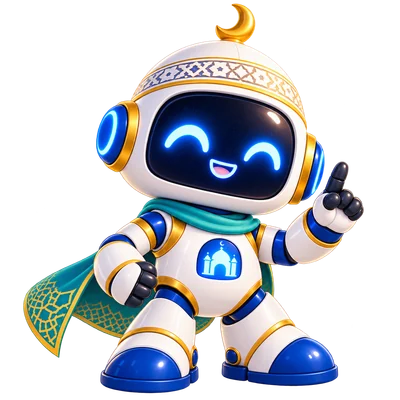
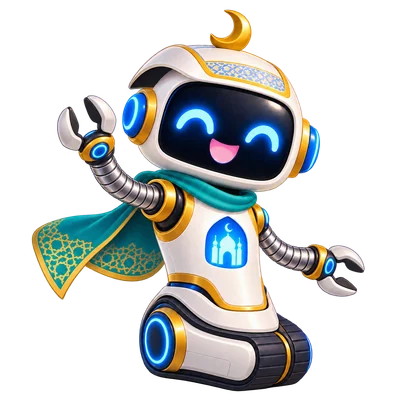
เปลี่ยนภาพหุ่นยนต์นำทางเป็นชุดใหม่ ลดความคล้ายมนุษย์
ชุดเก่าเป็นหุ่นยนต์สองขามีเท้าแบบมนุษย์ ชุดใหม่ใช้ฐานล้อและตีนตะขาบ
ไม่มีขา ดูเป็นเครื่องจักรชัดขึ้นตามข้อ 1.2

- แปลง .png ต้นฉบับเป็น .webp ด้วย scripts/optimize-images.mjs ตามเดิม
  (ราว 1.2MB -> 37KB ต่อใบ ขนาด 400x400 เท่าชุดเก่า)
- เจ้าของเปลี่ยนชื่อสองใบ จึงอัปเดตการอ้างอิงตาม
  cute -> play, glad -> idea
- การ์ดวัย 3-6 ปี และ /kids ใช้ play (ถือจอยเกม) ให้ตรงกับ
  "เรียนรู้ผ่านการเล่น" ส่วนหน้าจอชนะเกมความจำใช้ fighting
  (ท่าชูสองแขนฉลอง) แทนที่จะเป็นท่าคิดออก
- แก้คอมเมนต์ใน AgeGroupSelector ที่อ้างชื่อท่าเดิมให้ตรงกับภาพใหม่

ตรวจแล้ว: npm run build ผ่าน และเปิดดูจริงทุกหน้าที่ใช้ภาพ
ทั้งจอ 1280px และ 400px ไม่มี layout เพี้ยน

Claude-Session: https://claude.ai/code/session_015nFYibtH6AEJhVTPQzB3Gi

diff --git a/src/components/landing/AgeGroupSelector.tsx b/src/components/landing/AgeGroupSelector.tsx
@@ -12,14 +12,14 @@ import { useSound } from "@/components/sound/SoundProvider";
   เพราะพ่อแม่ส่งลิงก์ให้กันได้ตรงช่วงวัย และไม่มีสถานะซ่อนให้เด็กงงว่าของหายไปไหน
 
   แยกสองใบด้วยท่าทางของหุ่นยนต์นำทาง (ข้อ 1.2) เด็กที่ยังอ่านตัวเลขไม่ออกก็แยกได้
-  - 3-6 ปี "เรียนรู้ผ่านการเล่น" -> ท่าชูกำปั้นดีใจ (Glad)
+  - 3-6 ปี "เรียนรู้ผ่านการเล่น" -> ท่าถือจอยเกม (Play)
   - 7 ปีขึ้นไป "อ่านเองได้"      -> ท่าถือหนังสือเปิดอ่าน (Read)
   ภาพ alt="" เพราะชื่อช่วงวัยเป็นข้อความอยู่ข้างๆ ในลิงก์เดียวกันแล้ว
 */
 const GROUPS = [
   {
     href: "/kids",
-    image: "/Character/glad.webp",
+    image: "/Character/play.webp",
     label: "วัย 3-6 ปี",
     hint: "เรียนรู้ผ่านการเล่น",
     speakKey: "age-3-6",

diff --git a/src/components/games/MemoryGame.tsx b/src/components/games/MemoryGame.tsx
@@ -108,7 +108,7 @@ export function MemoryGame({ ageGroup }: { ageGroup: AgeGroup }) {
         </button>
       </div>}
       {won ? <div className="mx-auto max-w-lg rounded-card bg-sky-pale p-6 text-center">
-        <Image src="/Character/glad.webp" alt="" width={200} height={200} sizes="200px" className="logo-mark-glow mx-auto size-40 object-contain sm:size-48" />
+        <Image src="/Character/fighting.webp" alt="" width={200} height={200} sizes="200px" className="logo-mark-glow mx-auto size-40 object-contain sm:size-48" />
         <h2 ref={winHeading} tabIndex={-1} className="mt-2 font-display text-3xl font-extrabold">
           เก่งมาก!<span lang="en" className="block text-2xl">Well done!</span>
         </h2>

diff --git a/src/app/learn/games/page.tsx b/src/app/learn/games/page.tsx
@@ -22,7 +22,7 @@ export default function GamesPage() {
       <div className="bg-cloud shadow-soft rounded-card mt-6 flex items-center justify-center gap-2 px-4 py-6 sm:gap-6">
         {/* หุ่นยนต์นำทาง (ข้อ 1.2) ภาพตกแต่ง ชื่อหน้าเป็นข้อความอยู่ข้างๆ แล้ว */}
         <Image
-          src="/Character/cute.webp"
+          src="/Character/play.webp"
           alt=""
           width={144}
           height={144}

diff --git a/src/lib/lessons.ts b/src/lib/lessons.ts
@@ -275,7 +275,7 @@ export const ISLAND_CONTENT: IslandContent[] = [
   },
   {
     slug: "explore",
-    robot: "/Character/glad.webp",
+    robot: "/Character/idea.webp",
     introTh: "มองไปรอบตัว ทุกอย่างที่เราเห็นคือสิ่งที่อัลลอฮ์ทรงสร้าง",
     introEn: "Look around — everything we see was created by Allah.",
     kids: [

diff --git a/src/app/kids/page.tsx b/src/app/kids/page.tsx
@@ -8,7 +8,7 @@ export default function KidsPage() {
   return (
     <AgeHome
       anchor="kids"
-      robot="/Character/glad.webp"
+      robot="/Character/play.webp"
       titleTh="วัย 3-6 ปี"
       titleEn="Ages 3–6"
       hintTh="เรียนรู้ผ่านการเล่น แตะเกาะที่อยากไปได้เลย"
